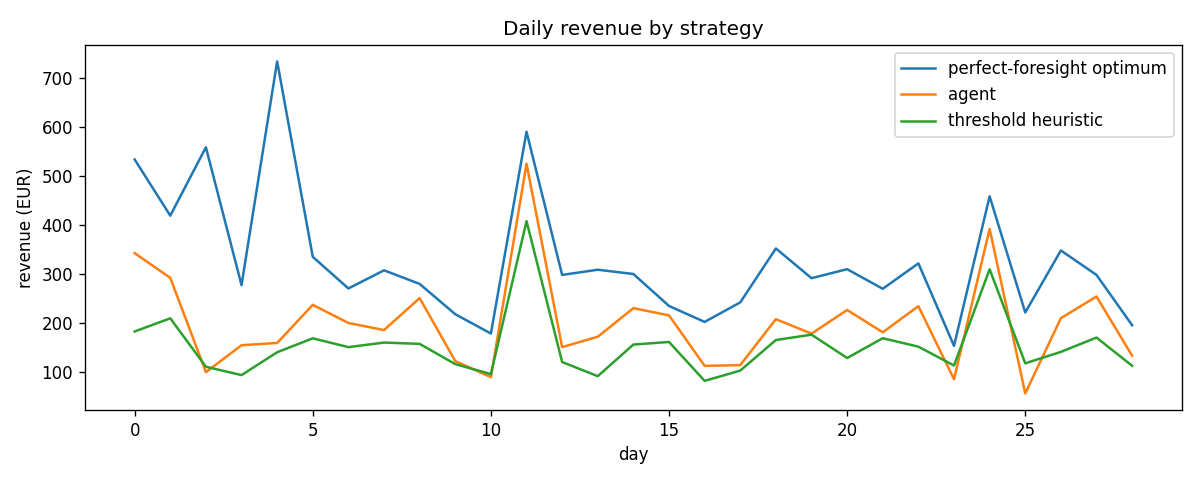
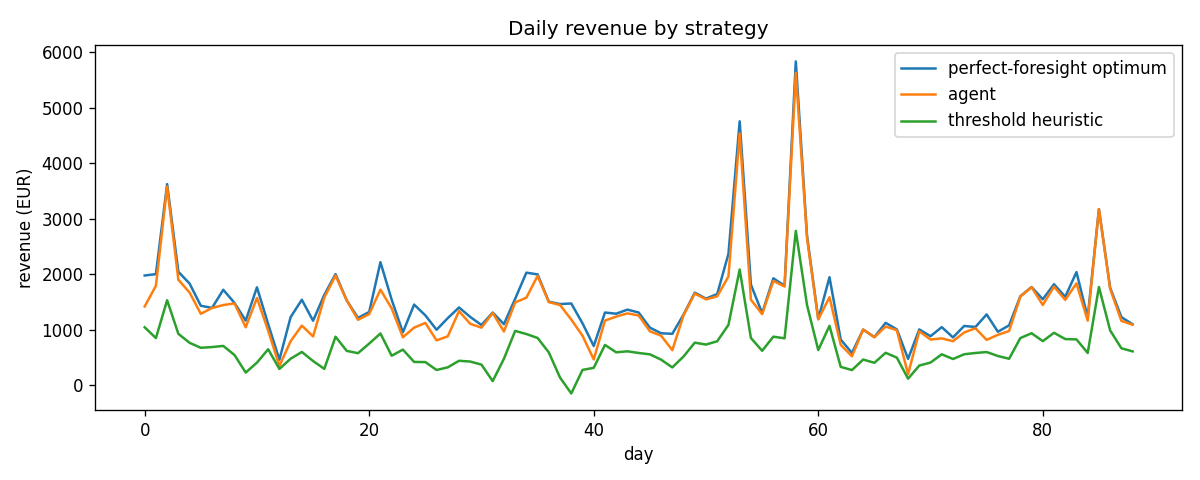
docs: real DE-LU backtest results (89 days, agent at 91.5% of optimum)

diff --git a/README.md b/README.md
@@ -59,18 +59,20 @@ tests/             one module per component, no API key needed
 
 ## Results
 
-These are on 29 scorable days of synthetic day-ahead prices with realistic day-to-day variation, so yesterday's curve is only a rough guide to today's. The earliest day has no prior day to forecast from and is skipped. Real DE-LU numbers will replace these once the ENTSO-E API token is in hand.
+These are on 89 scorable days of real DE-LU day-ahead prices from March to May 2026. The earliest day has no prior day to forecast from, and the late-March daylight-saving changeover is a 23-hour day, so both are skipped.
 
 | Strategy | Total revenue (EUR) | Share of optimum |
 | --- | --- | --- |
-| Perfect-foresight optimum | 9,514 | 100% |
-| Agent (LP on the naive forecast) | 5,815 | 61.1% |
-| Threshold heuristic | 4,464 | 46.9% |
+| Perfect-foresight optimum | 135,349 | 100% |
+| Agent (LP on the naive forecast) | 123,832 | 91.5% |
+| Threshold heuristic | 59,467 | 43.9% |
 | Do nothing | 0 | 0% |
 
-![Daily revenue per strategy across the 29 synthetic backtest days. The agent (orange) sits between the perfect-foresight optimum and the threshold heuristic.](revenue.png)
+![Daily revenue per strategy across the 89 DE-LU backtest days. The agent (orange) tracks the perfect-foresight optimum (blue) closely and sits well above the threshold heuristic (green).](revenue.png)
 
-The optimum and the two baselines need no model and are computed directly. The threshold heuristic plans on the same forecast the agent sees rather than peeking at realized prices. That makes it a fair bar, and it is why it sits at 46.9% instead of the higher number a price-foresight version would post. The agent runs the optimizer on that same forecast and reaches 61.1%, well clear of the heuristic. The rest of the gap is forecast error, and a better forecaster dropped in where the naive one sits is what closes it. The baselines here are reproducible offline; the agent figure is from a keyed backtest run over the same 29 days.
+The optimum and the two baselines need no model and are computed directly. The agent plans on the naive forecast, yesterday's prices, runs the LP on it, and is paid on the prices that actually arrived. On this market and period the daily price shape carries over well from one day to the next, so that naive plan already captures 91.5% of perfect foresight. The threshold heuristic plans on the same forecast but is a conservative, energy-neutral price-rank rule, which is why it reaches 43.9% while the full LP on the same information reaches 91.5%.
+
+The agent's revenue matches the deterministic LP-on-forecast figure to the euro. Given a single point forecast, the best the agent can do is run the optimizer and commit the schedule, which it did every day. The remaining 8.5 points to the optimum are forecast error. A learned forecaster narrows that gap, though on day-ahead prices this persistent the headroom from arbitrage alone is modest; acting on forecast uncertainty and trading beyond the day-ahead market are where the larger gains sit. The baselines are reproducible offline; the agent figure is from a keyed backtest over the same 89 days.
 
 ## Running it
 
